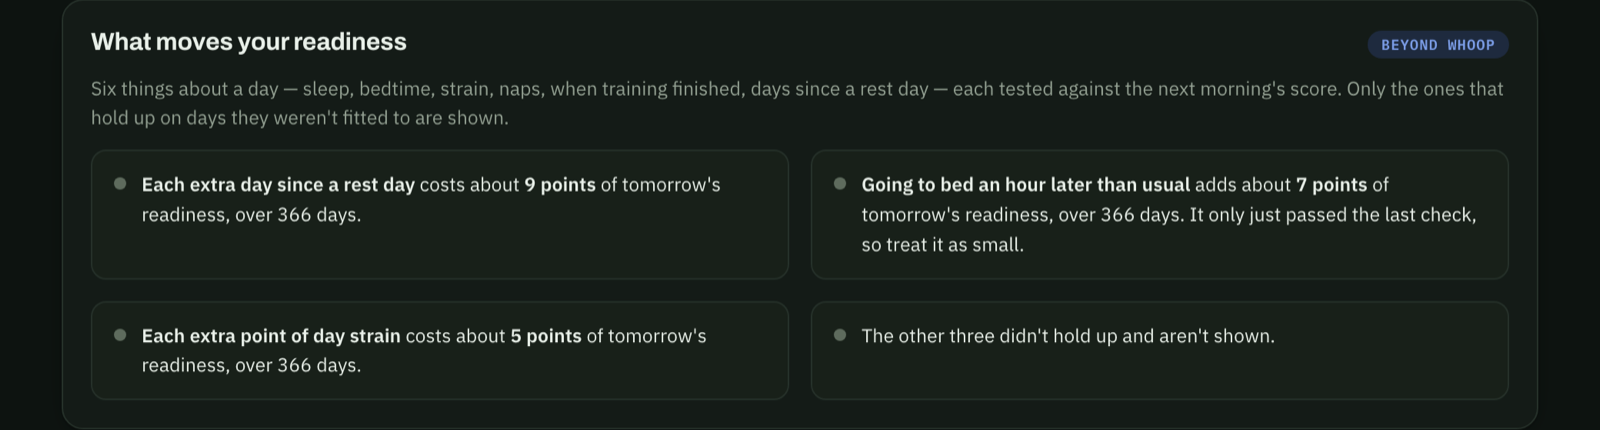
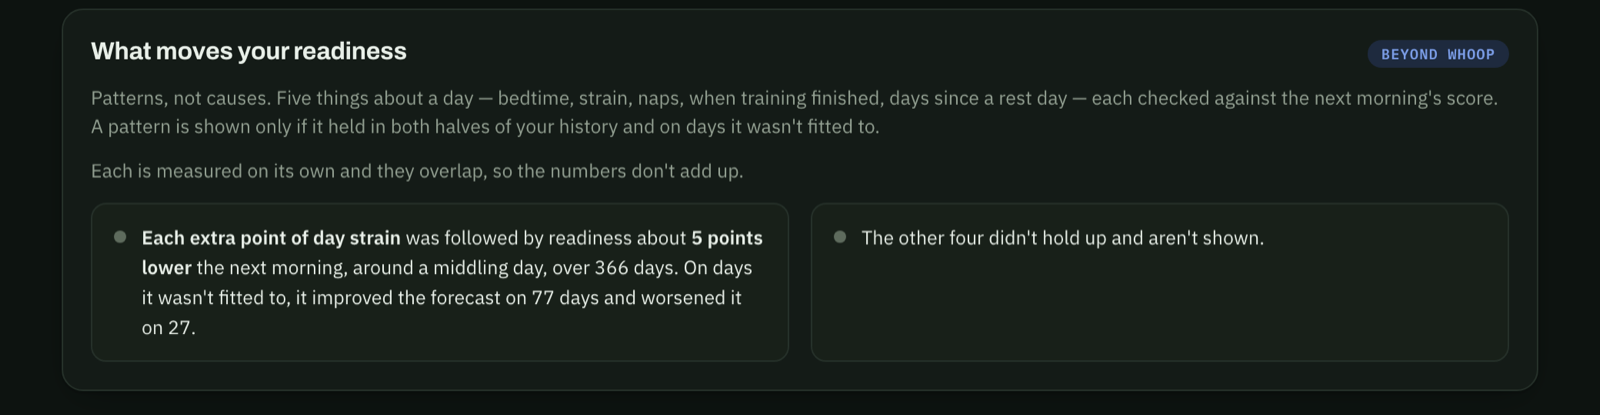
Refresh the drifted load share, two stale feature bullets and the panel screenshot
Today's live load moved the share of days above 1.5 from 15.7% to 15.8%, and
the guards flagged all four places that quote it. The README feature list still
described the old "what moves" gate and the heatmap's old colouring, and the
analysis screenshot still showed three demo predictors where one now survives.

diff --git a/chat_server.py b/chat_server.py
@@ -97,7 +97,7 @@ day. dashboard_summaries.load_today gives today's ratio and load_at = the TRAINI
 not strain) today at which the ratio would cross each band (algebra on the band, not a new threshold). The ratio is REPORTED and never acts on \
 the plan - it used to step it down past 1.5 and no longer does, because an acute:chronic ratio is a mean over \
 calendar days and this person has many days with no training, which swings it far harder than for the \
-near-daily squads the bands came from (above 1.5 on 15.7% of days here).
+near-daily squads the bands came from (above 1.5 on 15.8% of days here).
 - After a session the orb shows readiness after training (dashboard_summaries.training_cost): this \
 morning's score minus what today's strain costs by tomorrow morning, measured on their own history \
 (per_strain = readiness points per point of day strain, holding readiness constant; applied to strain \

diff --git a/build_dashboard.py b/build_dashboard.py
@@ -171,7 +171,7 @@ def build_acwr(load_by_day):
 
     The ratio is REPORTED, never acted on. It is a mean over calendar days and this schedule has many
     days with no training, which swings it far harder than it does for the near-daily squads the
-    bands came from: on TRIMP it sits above 1.5 on 15.7% of days. Gabbett's bands are disputed as an
+    bands came from: on TRIMP it sits above 1.5 on 15.8% of days. Gabbett's bands are disputed as an
     injury predictor anyway (Impellizzeri et al. 2020), so the number and its bands are shown and
     nothing in the plan depends on them. Both figures are re-measured by scripts/check_doc_stats.py."""
     from datetime import date as _date

diff --git a/README.md b/README.md
@@ -62,8 +62,9 @@ the dashboard says so rather than presenting one of ours as if it did.
   to your usual but never changes the plan (no study gives a numeric rise worth acting on).
 - **Today's plan** — training advice, sleep (nights with 7+ hours), the last day without a
   workout, and tonight's bedtime target from WHOOP's own sleep need.
-- **What moves your readiness** — five things about a day, each tested against the next morning's
-  score. Only the ones that hold up on days they weren't fitted to are shown; most don't.
+- **What moves your readiness** — patterns, not causes: five things about a day, each tested against
+  the next morning's score. One is shown only if it holds in both halves of your history and wins on
+  more held-out days than chance; on the owner's data none do.
 
 <img src="docs/screenshots/analysis.png" alt="What moves your readiness: each candidate tested against the next morning's score, with the ones that failed left out" width="880">
 
@@ -84,8 +85,8 @@ the dashboard says so rather than presenting one of ours as if it did.
 
 <img src="docs/screenshots/long-term.png" alt="Long-term view: recovery calendar heatmap and recovery cost by sport at the same intensity" width="880">
 
-- **Readiness, every day** — the last year as one cell per day, coloured by the plan that day's
-  score gave (the same three band colours, no new ones). Calendar days, so the gap in the export
+- **Readiness, every day** — the last year as one cell per day, coloured by the plan that day
+  actually got (the same three colours, no new ones). Calendar days, so the gap in the export
   shows as a gap; scrolls inside its own container.
 - **Recovery calendar heatmap** of every day on record.
 - **Recovery cost by sport** — one row per sport against your other training days, with your 4
@@ -214,7 +215,7 @@ anything, and it is not comparable between people.
 | Today's plan | **31+** — at or above the bottom of the normal band → **Train as planned** (the trials' prescribed moderate/high session); below the band → **Go easy** or **Rest**. There is no separate answer for being *above* the band, because no cited trial prescribes one: Kiviniemi 2007 gives high intensity on "an increase **or no change**", Javaloyes 2019 on "above **or within** the SWC", Vesterinen 2016 programmes the moderate/high session when HRV is **within** it, and the review of the trials says high intensity "within or above baseline ranges". **7–30** → Go easy, under **7** → Rest. Over 531 days the bands caught 66.7% / 27.1% / 6.2% of days, against the 69.1 / 24.2 / 6.7% the SD lines correspond to. That is a check that **the scale is built correctly**, not evidence the score predicts anything: a percentile puts a known fraction either side of each line. **Those percentages are the readiness series alone** — the score and its band lines, nothing that reacts to today's live state (they are not the share of days the card finally showed, which the rest rules below change). The gap at the top line is the composite's mild left skew (−0.26) plus a standardised mean of −0.05, because each day is scored against earlier days only | **−0.5 SD** is the smallest worthwhile change used in the trials ([Vesterinen et al., 2016](https://jyx.jyu.fi/jyx/Record/jyx_123456789_50625); [Javaloyes et al., 2019](https://pubmed.ncbi.nlm.nih.gov/29809080/); [Kiviniemi et al., 2007](https://pubmed.ncbi.nlm.nih.gov/17849143/)). **−1.5 SD is our own extension** — the "worth acting on" line attributed to Thornton 2019 could not be verified in the paper |
 | Go easy or rest | Below the band the trials prescribe "low intensity exercise (or passive rest)". Rest when the fall is **large** (under 7) or **sustained** — the **second day in a row** below your normal. Never more than **2 rest days in a row** | "Low intensity exercise (or passive rest) … when values are suppressed": [Manresa-Rocamora et al., 2021](https://pmc.ncbi.nlm.nih.gov/articles/PMC8507742/). The 2-day count is **adapted from** [Kiviniemi et al., 2007](https://pubmed.ncbi.nlm.nih.gov/17849143/) ("decreasing trend for 2 days" → low intensity or rest), with two differences stated plainly: his 2 days are two successive **drops in HRV**, not two days below the range, and he prescribed "low intensity **or** rest" without choosing between them — **the split between easy and rest is ours**. He also measured HF power, not ln rMSSD. **Both rules were measured on this history** (`scripts/check_doc_stats.py`, `rest_rules`): the implemented one triggers on **134 of 531 days (25.2%)** *(before the rest cap)*, Kiviniemi's literal one — HRV lower today than yesterday and yesterday than the day before — on **100 (18.8%)**, and they **disagree on 178 days (33.5%)**, agreeing on only 28. Both are evaluated for the same day, so the counts are comparable. After the two-in-a-row cap the plan actually says Rest on **19.2%** of days. The literal rule is measured, not applied. Rest cap: "will not accumulate more than two consecutive rest sessions", [Carrasco-Poyatos et al., 2020](https://pmc.ncbi.nlm.nih.gov/articles/PMC7432021/) — **a published trial protocol, not a result** |
 | Breathing rate | Last night against your usual (average of nights 30–90 days before, 30+ nights), **reported and never acted on**. The old "3+ breaths/min → Rest" rule was ours, not Natarajan's — the paper scores a standardised deviation from a rolling baseline and gives no numeric rise — and over the 493 nights with enough baseline to judge it never once fired (largest rise +2.3/min) | [Natarajan et al., 2021](https://pmc.ncbi.nlm.nih.gov/articles/PMC8443549/) |
-| Through the day | Every refresh recomputes the load ratio with today's **training load** (Edwards TRIMP) so far, and the card says how much room is left before the caution line ("passes 1.3 if today's training load goes over 340") — the load that puts the ratio exactly on the line, solved from the same 7- and 28-day averages. **The ratio is reported and never acts on the plan.** It used to step the plan down to Go easy past 1.5; it no longer does. An acute:chronic ratio is a mean over calendar days, and this schedule has many days with no training at all, which swings the ratio far harder than it does for the near-daily squads Gabbett's bands were drawn from — here it sits above 1.5 on **15.7%** of days (median 1.01, highest 3.69). A nap changes readiness itself, because hours asleep count naps. "Today" is the current WHOOP day, from one sleep to the next | Load-ratio bands: [Gabbett, 2016](https://bjsm.bmj.com/content/50/5/273) — disputed as an injury predictor: [Impellizzeri et al., 2020](https://pubmed.ncbi.nlm.nih.gov/32502973/) |
+| Through the day | Every refresh recomputes the load ratio with today's **training load** (Edwards TRIMP) so far, and the card says how much room is left before the caution line ("passes 1.3 if today's training load goes over 340") — the load that puts the ratio exactly on the line, solved from the same 7- and 28-day averages. **The ratio is reported and never acts on the plan.** It used to step the plan down to Go easy past 1.5; it no longer does. An acute:chronic ratio is a mean over calendar days, and this schedule has many days with no training at all, which swings the ratio far harder than it does for the near-daily squads Gabbett's bands were drawn from — here it sits above 1.5 on **15.8%** of days (median 1.01, highest 3.69). A nap changes readiness itself, because hours asleep count naps. "Today" is the current WHOOP day, from one sleep to the next | Load-ratio bands: [Gabbett, 2016](https://bjsm.bmj.com/content/50/5/273) — disputed as an injury predictor: [Impellizzeri et al., 2020](https://pubmed.ncbi.nlm.nih.gov/32502973/) |
 | After training | Readiness is an overnight measurement, so a session cannot change this morning's number — it lowers the next one. Measured on your own history: the next day's standardised composite regressed on today's score and today's strain (Newey-West errors, lag 7, because days are dependent). The effect is real — **−0.025 per strain point, p < 0.001, 527 day pairs** — and it is even across strain terciles (+0.058 / −0.069 / −0.159, judged on the next morning with today's score taken out — the same outcome the fit explains). But it **fails the third gate**: fitted on the first 70% of days, it beat doing nothing on only **53** of the held-out days and lost on **60** (46 ties; sign test p = 0.77), with a mean error of 12.0 against 11.4. **The adjusted score is not shown**, and turns itself on only if that reverses. Both the outcome and the control are the **standardised** composite, so the coefficient is in the unit it is later added to — regressing the raw night composite instead, as this did until recently, produced a number in one unit and applied it in another | Our own measurement, labelled as an extension — no published model prescribes this |
 | What the score would have been | A slider in the readiness panel for last night's hours asleep, from your own shortest to longest night of the last year. It re-evaluates **the same formula** — the same six standard scores, the same average, the same percentile step — with one input replaced, in the page, from figures already on it. Only last night's score moves: the 7-day part of the score stops at yesterday, which is why last night is counted once rather than twice. It is history, not a forecast: what today's score *would have been*, never what tomorrow will be | No new rule or threshold — `build_what_if` exports the existing baselines and `whatIfScore` re-runs `percentile_series`' arithmetic; a test asserts the slider at last night's real value returns the displayed score |
 | What moves your readiness | **Five** things about a day — bedtime against your own median, day strain, whether you napped, when the last session finished, days since a rest day — each fitted **on its own** against the next morning's standardised score, controlling for that day's score, with Newey-West errors (lag 7). Each must pass **the same three gates** as the training-cost adjustment: significant at p < 0.05; even across its own terciles, judged on the next morning **with today's score taken out** (the outcome the fit actually explains); fitted on the first 70% of days, better than doing nothing on **more of the last 30% of days than chance** (a one-sided sign test, p < 0.05 — a mean margin can be positive while the adjustment loses more days than it wins); and **the same sign with p < 0.05 in each half of the history**, fitted separately. Survivors are then **refitted together** in one model: fitted one at a time, correlated candidates borrow each other's effect, so any that **flips sign** jointly is dropped, one that keeps its sign but loses significance says so, and one that is an exact linear combination of candidates already in (entered in the order above) is dropped as redundant. The quoted effect is still the one-at-a-time number; the joint fit is a gate. The candidates overlap, so their effects **do not add up**. **Hours asleep is not a candidate**: it is one of the score's own inputs (today's last-night score) and sits inside tomorrow's 7-day window, so regressing tomorrow on it while controlling for today measures the formula's weights, not sleep — on this history it came out as "an extra hour of sleep costs 2 points", which is mechanical. On this history **none of five** survive. Day strain came closest — significant, even, and stable in both halves — but on the 159 held-out days its adjustment won **67** and lost **73** (sign test p = 0.72), despite a mean margin of 0.013 points. Points are read off the normal curve **around a middling day**, where it is steepest, so any effect shown is the largest it can be. On the synthetic athlete, bedtime — which the generator gives **no effect at all** — passed the first three gates and the joint fit; the sign test now removes it (45 wins, 41 losses, p = 0.37). Only strain survives there. The gates reduce false findings; they cannot promise to eliminate them | Our own measurement, labelled as one. Gates and errors as in `build_training_cost`; nothing here is a published rule, and nothing acts on the plan |

diff --git a/CLAUDE.md b/CLAUDE.md
@@ -76,7 +76,7 @@ python3 scripts/privacy_scan.py [--staged]          # must be clean before any p
   the plan" / "above the plan" (plan spent) unless the plan was Rest. The load ratio
   (`build_acwr` / `build_load_today`) is **reported, never acted on** — it no longer steps the plan down. An
   acute:chronic ratio is a mean over calendar days and this schedule has many zero days, so it swings far harder
-  than for the near-daily squads Gabbett's bands came from (above 1.5 on 15.7% of days here; disputed anyway,
+  than for the near-daily squads Gabbett's bands came from (above 1.5 on 15.8% of days here; disputed anyway,
   Impellizzeri 2020). It runs on **Edwards TRIMP, never day strain** — Gabbett's bands are linear-load, and the
   strain ratio never passed 1.5 in 568 days.
   `build_training_cost` measures what today's strain costs the NEXT NIGHT's composite (regression on the composite
